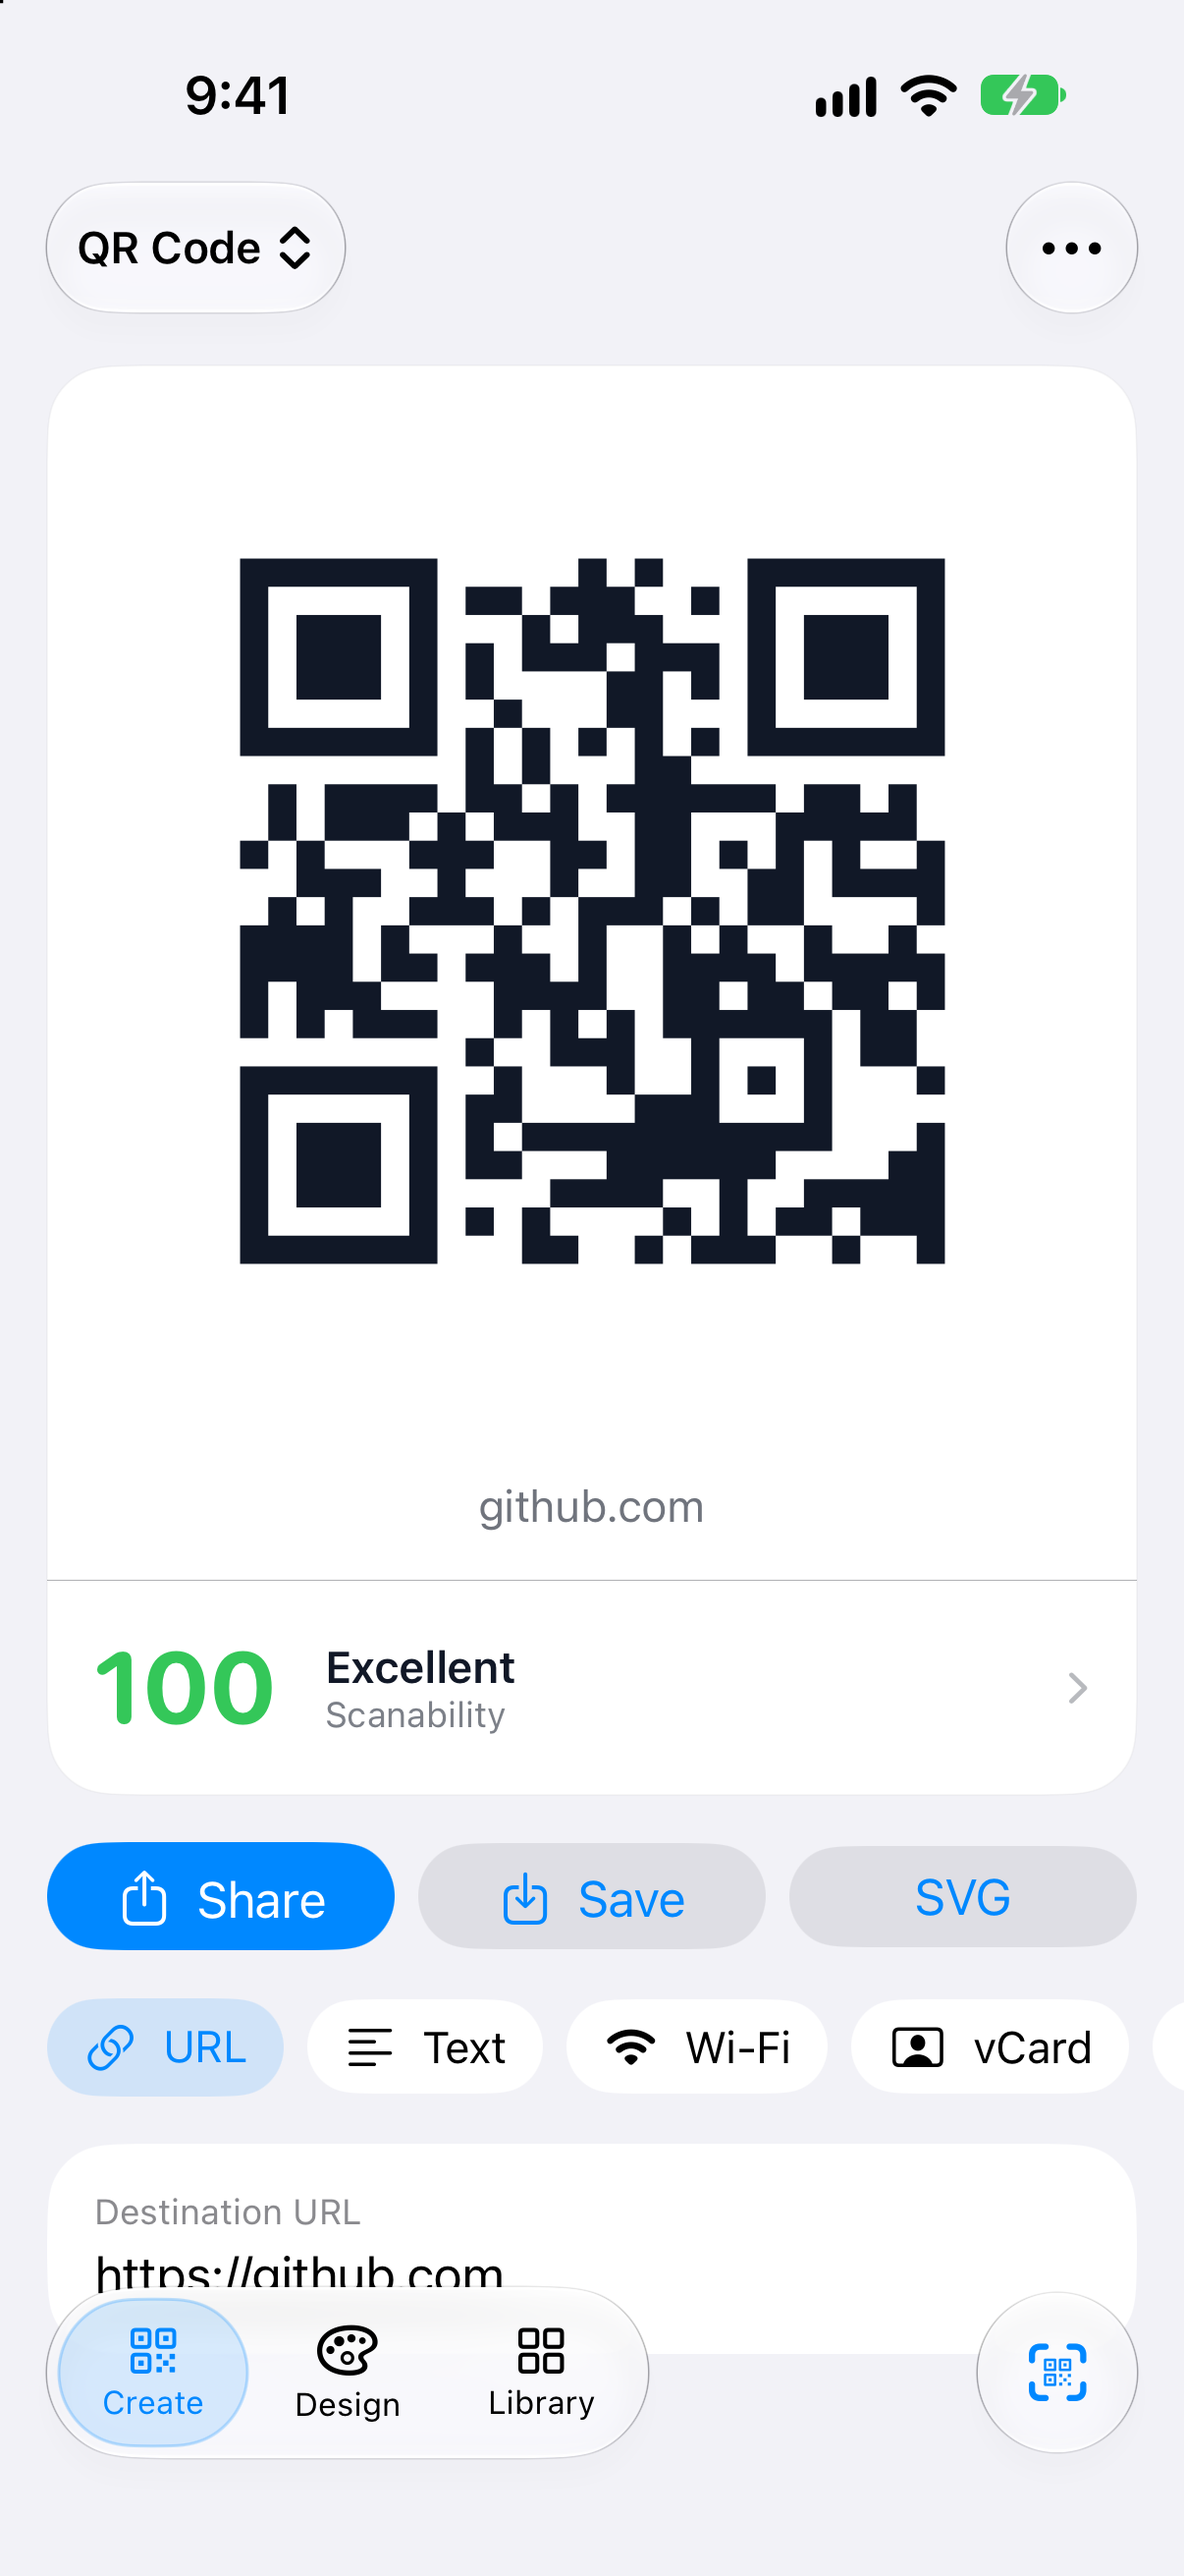
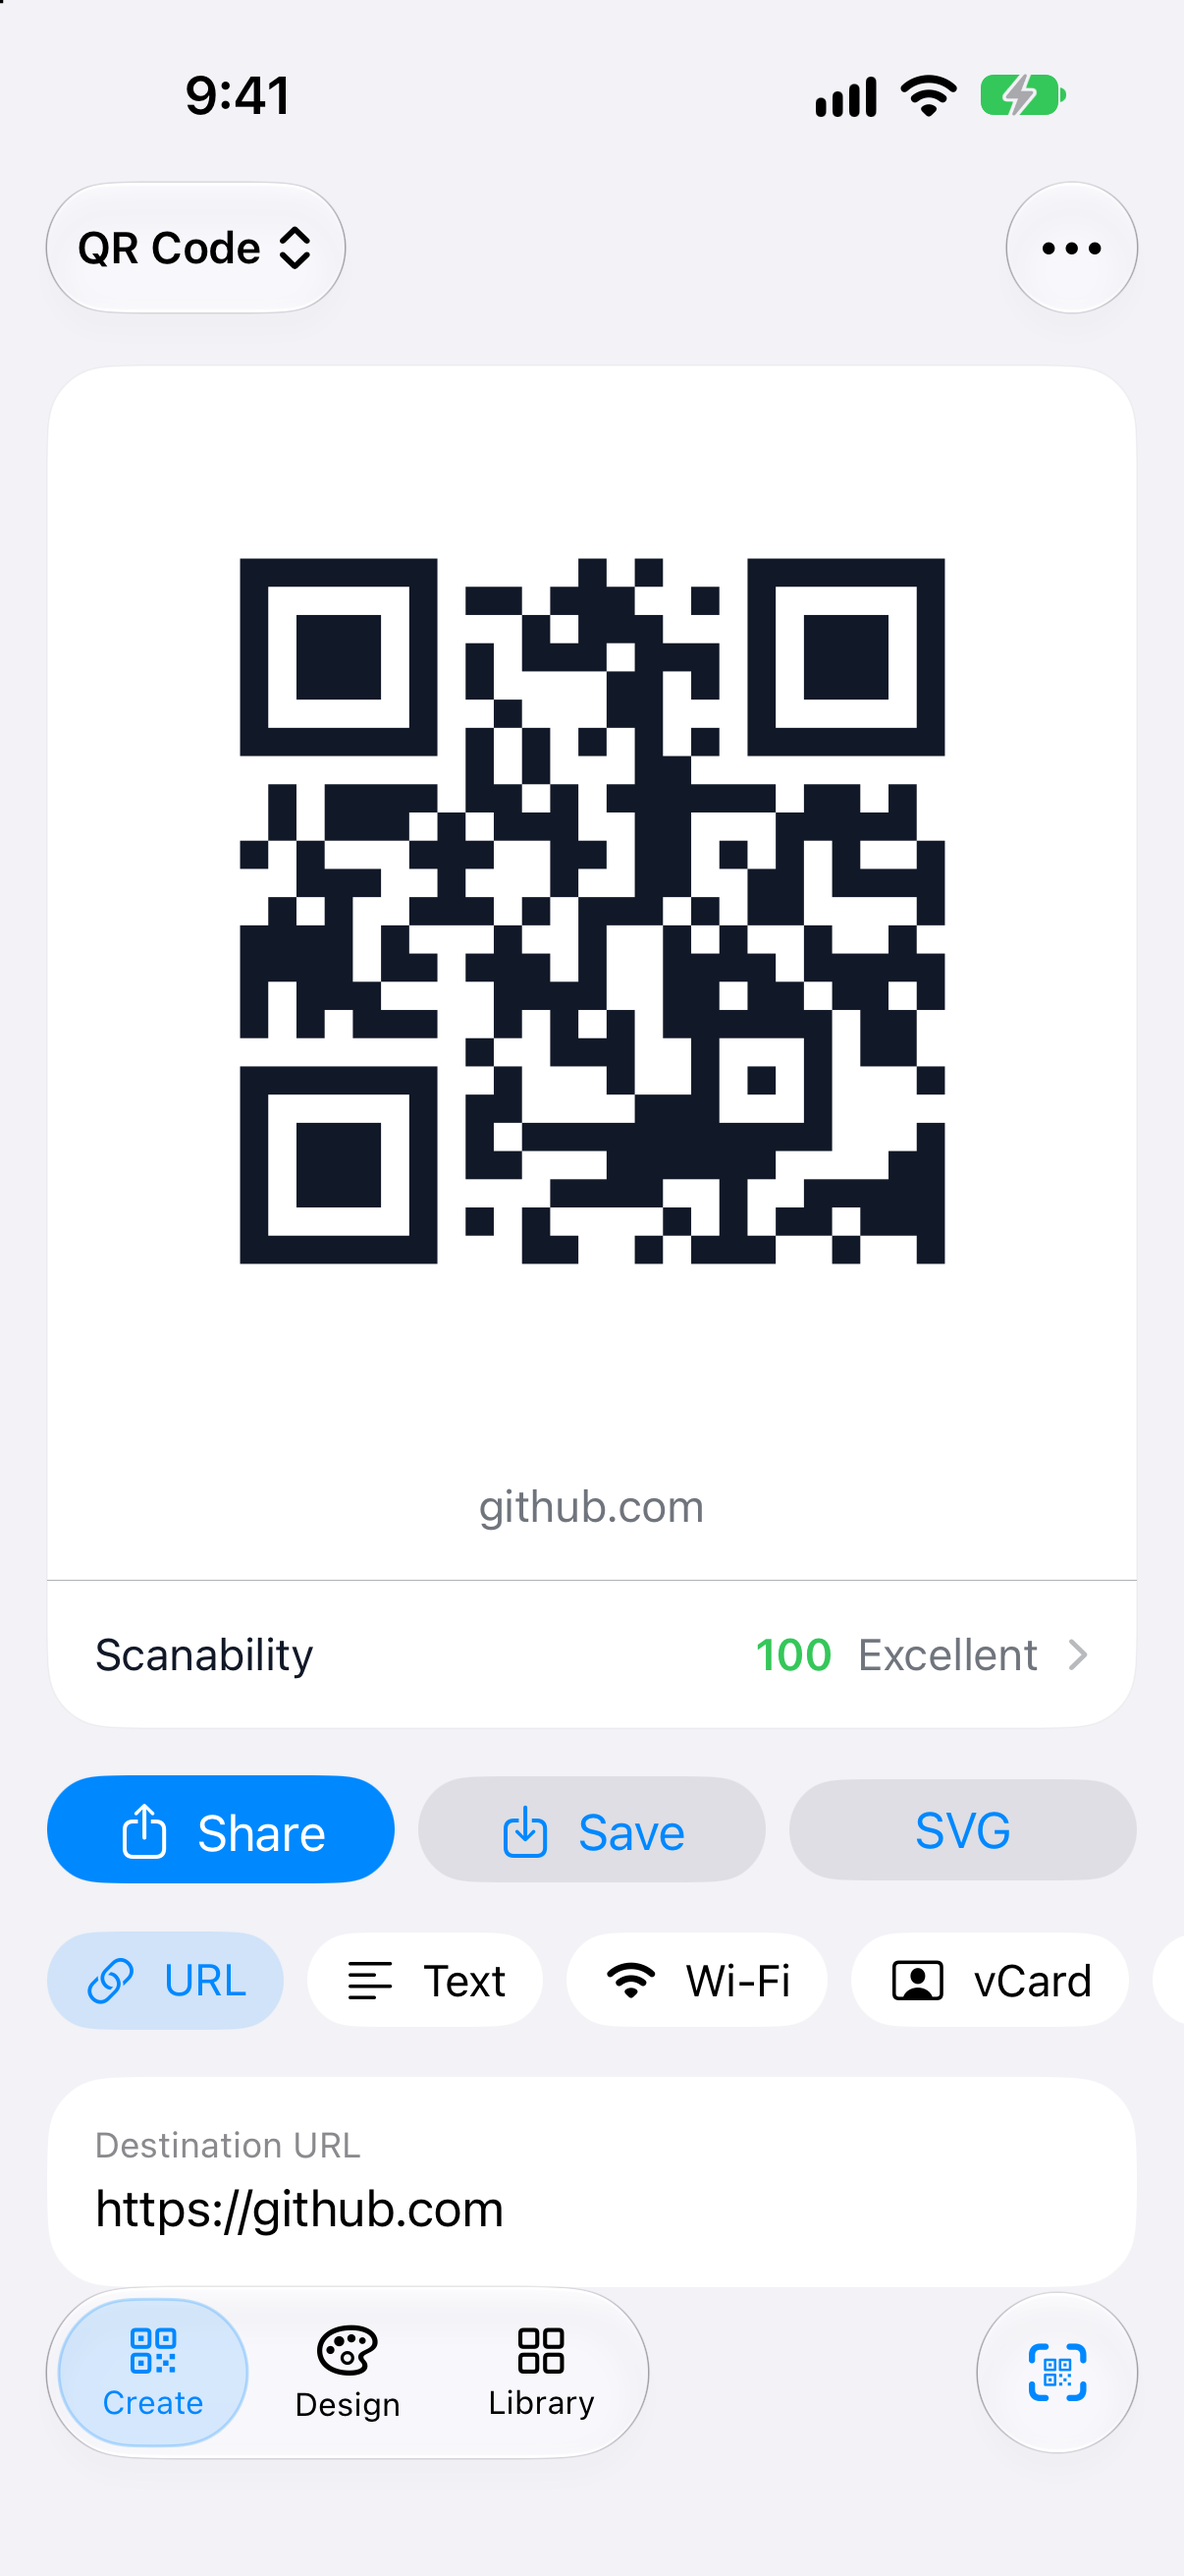
fix: make the scanability score a value rather than a headline
It was a 34pt numeral, which I copied from the reference app's balance figure
without checking that this app has the same kind of hero. It does not: there, the
balance is the product, and here the code is. A second headline competed with the
subject of the screen.

It is now a label and a value on the code's own card — Scanability, 100,
Excellent — still tappable, still opening the report.

diff --git a/Sources/CreateViews.swift b/Sources/CreateViews.swift
@@ -126,24 +126,24 @@ struct CreateView: View {
         )
     }
 
-    /// The score, on the code's own card, opening the full report when tapped.
+    /// The score, on the code's card, opening the report when tapped. It is a
+    /// label with a value rather than a headline: the code is the subject of
+    /// this screen, and a large numeral beside it would be a second one.
     private var scoreLine: some View {
         Button {
             scoreSheetPresented = true
         } label: {
-            HStack(alignment: .center, spacing: Theme.cardPadding) {
-                Text("\(model.report.score)")
-                    .font(.system(size: 34, weight: .bold, design: .rounded))
-                    .foregroundStyle(model.report.color)
-                VStack(alignment: .leading, spacing: 0) {
-                    Text(model.report.grade)
-                        .font(.subheadline.weight(.semibold))
-                        .foregroundStyle(Theme.ink)
-                    Text("Scanability")
-                        .font(.caption)
-                        .foregroundStyle(Theme.ink.opacity(0.55))
-                }
+            HStack(spacing: Theme.tight) {
+                Text("Scanability")
+                    .font(.subheadline)
+                    .foregroundStyle(Theme.ink)
                 Spacer()
+                Text("\(model.report.score)")
+                    .font(.subheadline.weight(.semibold))
+                    .foregroundStyle(model.report.color)
+                Text(model.report.grade)
+                    .font(.subheadline)
+                    .foregroundStyle(Theme.ink.opacity(0.6))
                 Image(systemName: "chevron.right")
                     .font(.caption.weight(.semibold))
                     .foregroundStyle(Theme.ink.opacity(0.3))
